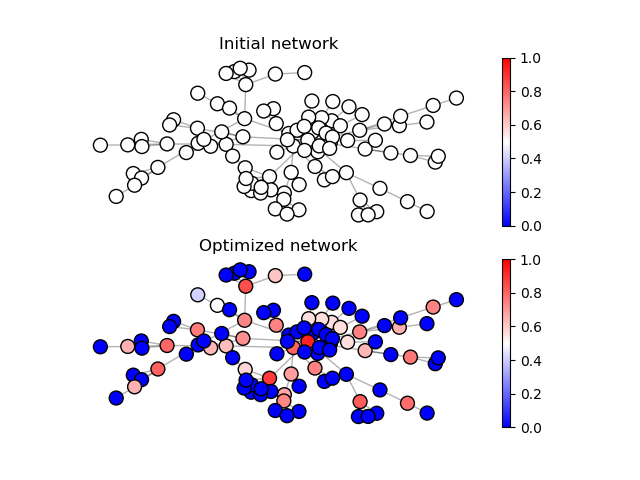
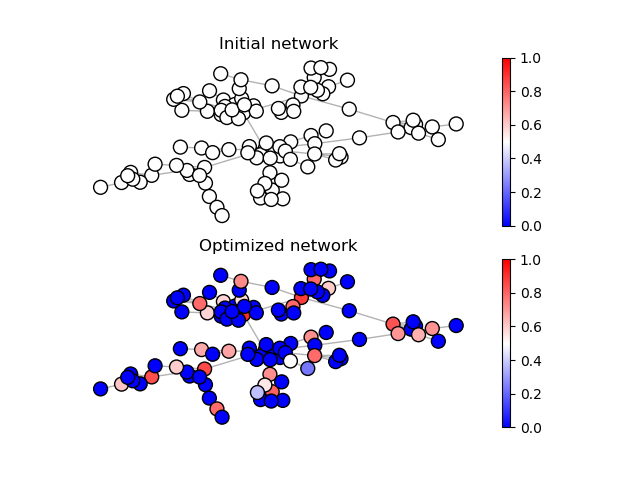
Modified optimization methods a bit and added random optimization

Changed region(s): [[0.125, 0.5312, 0.75, 0.9062], [0.125, 0.125, 0.7188, 0.4688], [0.625, 0.4062, 0.6875, 0.4688]]

diff --git a/utilities/plot.py b/utilities/plot.py
@@ -1,7 +1,7 @@
 from networkx import spring_layout, draw_networkx_nodes, draw_networkx_edges
 from matplotlib.pyplot import figure, draw, axis, show, cm, colorbar, Normalize, \
     subplot, title, savefig, plot, legend, scatter, xlabel, ylabel
-from numpy import mean, array, polyfit, poly1d, linspace, zeros
+from numpy import mean, array, polyfit, poly1d, linspace, zeros, subtract
 from utilities.io import save_frequencies
 
 
@@ -46,24 +46,29 @@ def plot_optimized_network(network, blocking=True, save_plot=True):
     show(block=blocking)  # Open matplotlib window
 
 
-def plot_exposures(default_set, gradient_set, heuristic_set):
+def plot_exposures(default_set, gradient_set, heuristic_set, random_set):
     num_steps = str(len(default_set[0]))
     _title = 'Network exposure over ' + num_steps + ' steps'
 
+    subtract(1, default_set)
+    subtract(1, gradient_set)
+    subtract(1, heuristic_set)
+
     figure('Exposure')
-    trial_opacity = .3
-    for exposures in default_set:
-        plot(exposures, alpha=trial_opacity)
+    # trial_opacity = .3
+    # for exposures in default_set:
+    #     plot(exposures, alpha=trial_opacity)
+    #
+    # for exposures in gradient_set:
+    #     plot(exposures, alpha=trial_opacity)
+    #
+    # for exposure in heuristic_set:
+    #     plot(exposure, alpha=trial_opacity)
 
-    for exposures in gradient_set:
-        plot(exposures, alpha=trial_opacity)
-
-    for exposure in heuristic_set:
-        plot(exposure, alpha=trial_opacity)
-
-    plot(mean(default_set, axis=0), label='Uniform average')
-    plot(mean(gradient_set, axis=0), label='Gradient average')
-    plot(mean(heuristic_set, axis=0), label='Heuristic average')
+    plot(mean(subtract(1, default_set), axis=0), label='Uniform average')
+    plot(mean(subtract(1, gradient_set), axis=0), label='Gradient average')
+    plot(mean(subtract(1, heuristic_set), axis=0), label='Heuristic average')
+    plot(mean(subtract(1, random_set), axis=0), label='Random average')
 
     legend()
     savefig('../results/network_exposure_' + num_steps + '.png')
@@ -72,24 +77,25 @@ def plot_exposures(default_set, gradient_set, heuristic_set):
     show()
 
 
-def plot_infection(default_set, gradient_set, heuristic_set):
+def plot_infection(default_set, gradient_set, heuristic_set, random_set):
     num_steps = str(len(default_set[0]))
     _title = 'Network infection over ' + num_steps + ' steps'
 
     figure('Exposure')
     trial_opacity = .2
-    for exposures in default_set:
-        plot(exposures, alpha=trial_opacity)
+    # for exposures in default_set:
+    #     plot(subtract(1, default_set), alpha=trial_opacity)
+    #
+    # for exposures in gradient_set:
+    #     plot(subtract(1, gradient_set), alpha=trial_opacity)
+    #
+    # for exposure in heuristic_set:
+    #     plot(subtract(1, heuristic_set), alpha=trial_opacity)
 
-    for exposures in gradient_set:
-        plot(exposures, alpha=trial_opacity)
-
-    for exposure in heuristic_set:
-        plot(exposure, alpha=trial_opacity)
-
-    plot(mean(default_set, axis=0), label='Uniform average')
-    plot(mean(gradient_set, axis=0), label='Gradient average')
-    plot(mean(heuristic_set, axis=0), label='Heuristic average')
+    plot(mean(subtract(1, default_set), axis=0), label='Uniform average')
+    plot(mean(subtract(1, gradient_set), axis=0), label='Gradient average')
+    plot(mean(subtract(1, heuristic_set), axis=0), label='Heuristic average')
+    plot(mean(subtract(1, random_set), axis=0), label='Random average')
 
     legend()
     xlabel('Time steps')

diff --git a/model/optimize.py b/model/optimize.py
@@ -1,15 +1,25 @@
 from utilities.utilities import get_node, increment_values, balls_per_node
 from math import ceil
+from random import randint
 
 
-def optimize_initial(network):
+def get_optimization_method(method):
+
+    if method in methods:
+        print('Running', method_names.get(method))
+        return methods.get(method)
+
+    print('Not found, running', method_names.get(0))
+    return gradient_optimize
+
+
+def gradient_optimize(network):
     current_exposure = network.exposures[len(network.exposures)-1]
 
     while True:
         min_node, _, urn_counts = get_node(network, False)
 
         if network.nodes[min_node].red - 1 < 0:
-            # print('Negative value,  breaking.')
             break
         network.nodes[min_node].red -= 1
         network.nodes[min_node].init_total -= 1
@@ -18,7 +28,6 @@ def optimize_initial(network):
         max_node, exposure_change, _ = get_node(network, True)
 
         if exposure_change <= 0 or min_node == max_node:
-            # print('Worsened exposure, breaking.')
             network.nodes[min_node].red += 1
             network.nodes[min_node].init_total += 1
             break
@@ -47,3 +56,31 @@ def heuristic_optimize(network):
             num_balls = 0
 
         node.red = node_balls
+
+
+def random_optimize(network):
+    budget = network.n * balls_per_node
+    for i, _ in enumerate(network.nodes):
+        node_balls = randint(0, 20) if budget > 0 else 0
+        budget -= node_balls
+        if budget < 0:
+            budget = 0
+            node_balls += budget
+
+        network.nodes[i].red = node_balls
+
+    if budget > 0:
+        network.nodes[len(network.nodes)-1].red = budget
+
+
+method_names = {
+    0: 'Gradient Descent',
+    1: 'Heuristic',
+    2: 'Random'
+}
+
+methods = {
+    0: gradient_optimize,
+    1: heuristic_optimize,
+    2: random_optimize
+}

diff --git a/execute/accuracy_compare.py b/execute/accuracy_compare.py
@@ -11,30 +11,40 @@ num_trials = 30
 default_set = []
 gradient_set = []
 heuristic_set = []
+random_set = []
 
-net.plot_network(1)
-
+# net.plot_network(1)
 for i in range(num_trials):
-    net.run_n_steps(num_steps, True)
-    default_set.append(copy(net.trial_weights))
+    net.run_n_steps(num_steps)
+    default_set.append(copy(net.exposures))
     net.clear_network()
 print('Default Complete')
 
-net.optimize_initial()
-net.plot_network(2, False)
+net.optimize_initial(method=0)
+# net.plot_network(2, False)
 for i in range(num_trials):
-    net.run_n_steps(num_steps, True)
-    gradient_set.append(copy(net.trial_weights))
+    net.run_n_steps(num_steps)
+    gradient_set.append(copy(net.exposures))
     net.clear_network()
 print('Gradient complete')
 
 net.reset_network()
-net.optimize_initial(gradient=False)
+net.optimize_initial(method=1)
 for i in range(num_trials):
-    net.run_n_steps(num_steps, True)
-    heuristic_set.append(copy(net.trial_weights))
+    net.run_n_steps(num_steps)
+    heuristic_set.append(copy(net.exposures))
     net.clear_network()
 print('Heuristic complete')
 
+
+net.reset_network()
+net.optimize_initial(method=2)
+for i in range(num_trials):
+    net.run_n_steps(num_steps)
+    random_set.append(copy(net.exposures))
+    net.clear_network()
+print('Random complete')
+
+
 plot_degree_frequency(net)
-plot_infection(default_set, gradient_set, heuristic_set)
+plot_infection(default_set, gradient_set, heuristic_set, random_set)

diff --git a/model/network.py b/model/network.py
@@ -6,7 +6,7 @@ from utilities.io import save_network
 from random import random
 from utilities.plot import plot_optimized_network
 from networkx import spring_layout
-from model.optimize import optimize_initial,  heuristic_optimize
+from model.optimize import get_optimization_method
 
 
 class network:
@@ -76,13 +76,11 @@ class network:
     def export_network(self):
         save_network(self.network_plot)
 
-    def optimize_initial(self, lock=True, gradient=True):
+    def optimize_initial(self, lock=True, method=0):
         if self.steps > 0:
             raise ValueError('Cannot optimize initial after steps were run')
-        if gradient:
-            optimize_initial(self)
-        else:
-            heuristic_optimize(self)
+        optimizer = get_optimization_method(method)
+        optimizer(self)
 
         if lock:
             self.lock_optimization()
